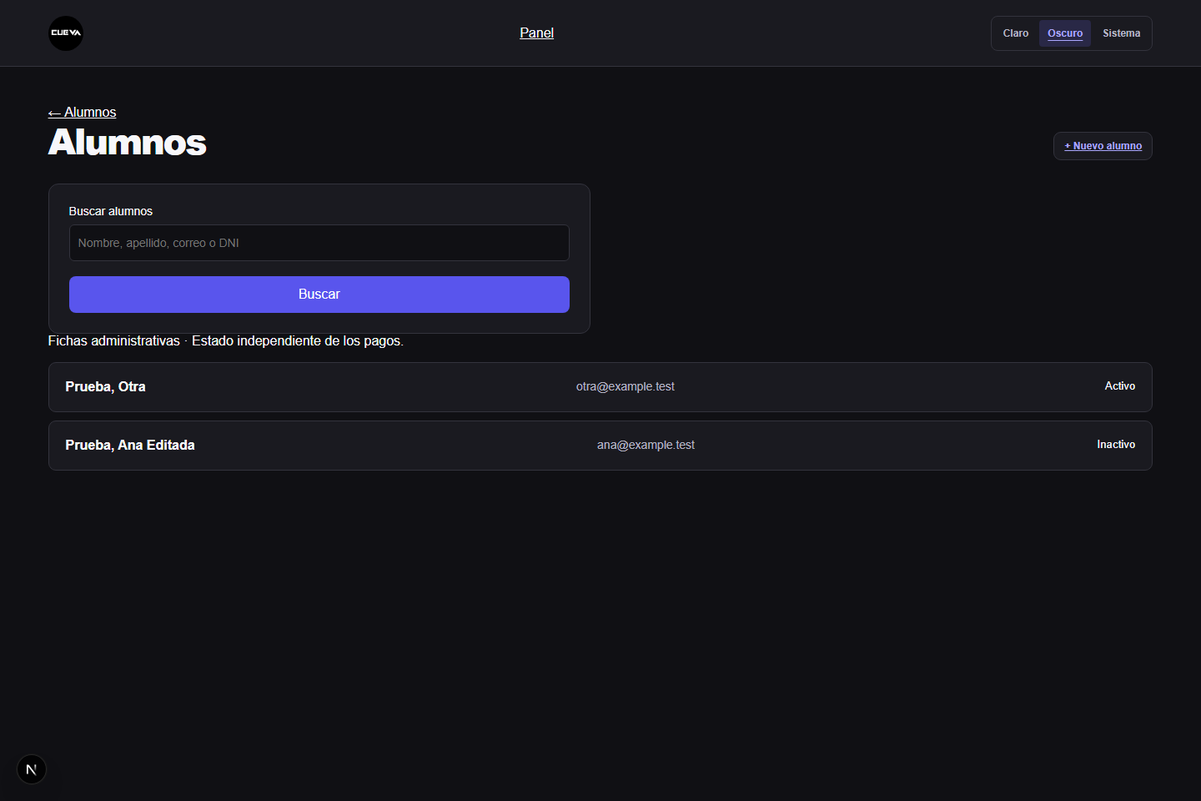
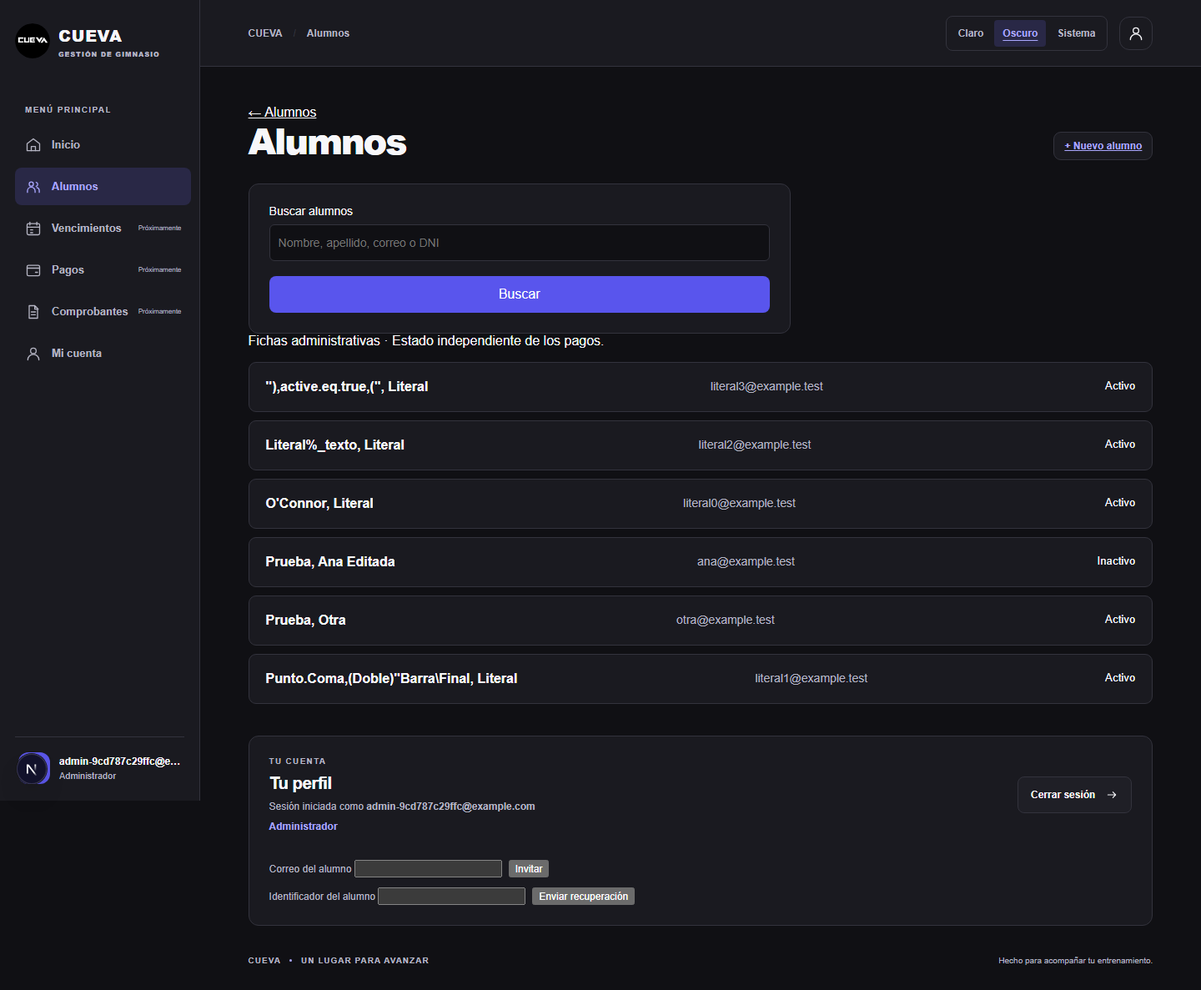
fix: preserve student search and shared admin navigation

diff --git a/src/components/dashboard/admin-dashboard.tsx b/src/components/dashboard/admin-dashboard.tsx
@@ -20,31 +20,42 @@ const areas: { id: string; name: string; label: string; description: string; ico
   { id: "pagos", name: "Pagos", label: "Pagos y cuotas", description: "El registro y seguimiento de pagos estará disponible próximamente.", icon: "wallet" },
   { id: "comprobantes", name: "Comprobantes", label: "Comprobantes pendientes", description: "Los comprobantes para revisar aparecerán acá.", icon: "file" },
 ];
-export function AdminDashboard({ displayName, email, role, logo, themePicker, accountActions }: { displayName: string; email: string; role: string; logo: ReactNode; themePicker: ReactNode; accountActions?: ReactNode }) {
+type AdminProps = { displayName: string; email: string; role: string; logo: ReactNode; themePicker: ReactNode; accountActions?: ReactNode };
+export function AdminAccountActions({ ownerOnly }: { ownerOnly: boolean }) {
+  return ownerOnly ? <p>Las invitaciones y la recuperación de alumnos estarán disponibles cuando terminemos de configurar el correo del gimnasio.</p> : <><form method="post" action="/api/acceso/admin-invitar"><label>Correo del alumno <input name="email" type="email" required/></label><button>Invitar</button></form><form method="post" action="/api/acceso/admin-recuperar"><label>Identificador del alumno <input name="user_id" required/></label><button>Enviar recuperación</button></form></>;
+}
+export function AdminShell({ displayName, email, role, logo, themePicker, accountActions, active = "inicio", children }: AdminProps & { active?: "inicio" | "alumnos"; children: ReactNode }) {
+  const panelLink = active === "inicio" ? "#inicio" : "/cuenta";
+  const areaLink = (id: string) => id === "alumnos" ? "/alumnos" : `${active === "inicio" ? "" : "/cuenta"}#${id}`;
   return <div className="dashboard" id="inicio">
     <a className="skip-link" href="#panel">Saltar al contenido</a>
     <aside className="dash-sidebar" aria-label="Barra lateral">
-      <a href="#inicio" className="dash-brand" aria-label="CUEVA, inicio">{logo}<span>CUEVA <small>GESTIÓN DE GIMNASIO</small></span></a>
+      <a href={panelLink} className="dash-brand" aria-label="CUEVA, inicio">{logo}<span>CUEVA <small>GESTIÓN DE GIMNASIO</small></span></a>
       <div className="dash-nav-label">MENÚ PRINCIPAL</div>
       <nav className="dash-side-nav" aria-label="Navegación principal">
-        <a href="#inicio" className="dash-nav-active" aria-current="page"><Icon name="home"/>Inicio</a>
-        {areas.map(area => <a href={area.id === "alumnos" ? "/alumnos" : `#${area.id}`} key={area.id}><Icon name={area.icon}/>{area.name}{area.id !== "alumnos" && <span>Próximamente</span>}</a>)}
+        <a href={panelLink} className={active === "inicio" ? "dash-nav-active" : undefined} aria-current={active === "inicio" ? "page" : undefined}><Icon name="home"/>Inicio</a>
+        {areas.map(area => <a href={areaLink(area.id)} key={area.id} className={active === area.id ? "dash-nav-active" : undefined} aria-current={active === area.id ? "page" : undefined}><Icon name={area.icon}/>{area.name}{area.id !== "alumnos" && <span>Próximamente</span>}</a>)}
         <a href="#cuenta"><Icon name="user"/>Mi cuenta</a>
       </nav>
       <div className="dash-sidebar-bottom"><span className="dash-avatar" aria-hidden="true">{displayName.charAt(0).toUpperCase()}</span><div><strong>{displayName}</strong><small>{role}</small></div></div>
     </aside>
     <div className="dash-content">
-      <header className="dash-header"><div className="dash-mobile-brand">{logo}<span>CUEVA</span></div><div className="dash-breadcrumb">CUEVA <span>/</span> Panel de administración</div><div className="dash-header-actions">{themePicker}<a href="#cuenta" className="dash-profile-link" aria-label="Ir a mi cuenta"><Icon name="user"/></a></div></header>
+      <header className="dash-header"><div className="dash-mobile-brand">{logo}<span>CUEVA</span></div><div className="dash-breadcrumb">CUEVA <span>/</span> {active === "alumnos" ? "Alumnos" : "Panel de administración"}</div><div className="dash-header-actions">{themePicker}<a href="#cuenta" className="dash-profile-link" aria-label="Ir a mi cuenta"><Icon name="user"/></a></div></header>
       <main className="dash-main" id="panel" tabIndex={-1}>
-        <div className="dash-heading"><div><p className="dash-overline"><span/> TU ESPACIO DE GESTIÓN</p><h1>Hola, {displayName} <span aria-hidden="true">✳</span></h1><p>Todo lo importante de tu gimnasio, en un solo lugar.</p></div><span className="dash-role"><Icon name="spark"/>{role}</span></div>
-        <div className="dash-section-heading"><div><p className="dash-kicker">TU GIMNASIO</p><h2>Resumen general</h2></div><span className="dash-live-label"><span/> PANEL DE ADMINISTRACIÓN</span></div>
-        <div className="dash-cards">{areas.map(area => <a href={area.id === "alumnos" ? "/alumnos" : `#${area.id}`} className="dash-card" key={area.id}><span className="dash-card-top"><span className={`dash-card-icon icon-${area.id}`}><Icon name={area.icon}/></span><Icon name="arrow"/></span><span className="dash-card-label">{area.label}</span><strong>{area.id === "alumnos" ? "Gestionar fichas" : "Sin datos aún"}</strong><span className="dash-card-note">{area.id === "alumnos" ? "Abrir listado de alumnos" : "Disponible próximamente"}</span></a>)}</div>
-        <div className="dash-section-heading dash-areas-heading"><div><p className="dash-kicker">ORGANIZÁ TU DÍA</p><h2>Tu espacio de trabajo</h2><p>Estamos preparando las herramientas para acompañarte.</p></div></div>
-        <div className="dash-workspace">{areas.map(area => <section className="dash-area" id={area.id} key={area.id}><div className="dash-area-icon"><Icon name={area.icon}/></div><div><div className="dash-area-title"><h3>{area.name}</h3>{area.id !== "alumnos" && <span>PRÓXIMAMENTE</span>}</div><p>{area.description}</p></div></section>)}</div>
+        {children}
         <section className="dash-account" id="cuenta"><div><p className="dash-kicker">TU CUENTA</p><h2>Tu perfil</h2><p>Sesión iniciada como <strong>{email}</strong></p><span className="dash-account-role">{role}</span></div><form method="post" action="/api/acceso/salir"><button type="submit" className="dash-signout">Cerrar sesión <Icon name="arrow"/></button></form>{accountActions && <div className="dash-account-actions">{accountActions}</div>}</section>
         <footer className="dash-footer"><span>CUEVA <i/> UN LUGAR PARA AVANZAR</span><span>Hecho para acompañar tu entrenamiento.</span></footer>
       </main>
     </div>
-    <nav className="dash-mobile-nav" aria-label="Navegación móvil"><a href="#inicio" aria-current="page"><Icon name="home"/><span>Inicio</span></a><a href="/alumnos"><Icon name="users"/><span>Alumnos</span></a><a href="#pagos"><Icon name="wallet"/><span>Pagos</span></a><a href="#comprobantes"><Icon name="file"/><span>Comprobantes</span></a><a href="#cuenta"><Icon name="user"/><span>Cuenta</span></a></nav>
+    <nav className="dash-mobile-nav" aria-label="Navegación móvil"><a href={panelLink} aria-current={active === "inicio" ? "page" : undefined}><Icon name="home"/><span>Inicio</span></a><a href="/alumnos" aria-current={active === "alumnos" ? "page" : undefined}><Icon name="users"/><span>Alumnos</span></a><a href={areaLink("pagos")}><Icon name="wallet"/><span>Pagos</span></a><a href={areaLink("comprobantes")}><Icon name="file"/><span>Comprobantes</span></a><a href="#cuenta"><Icon name="user"/><span>Cuenta</span></a></nav>
   </div>;
+}
+export function AdminDashboard(props: AdminProps) {
+  return <AdminShell {...props}>
+        <div className="dash-heading"><div><p className="dash-overline"><span/> TU ESPACIO DE GESTIÓN</p><h1>Hola, {props.displayName} <span aria-hidden="true">✳</span></h1><p>Todo lo importante de tu gimnasio, en un solo lugar.</p></div><span className="dash-role"><Icon name="spark"/>{props.role}</span></div>
+        <div className="dash-section-heading"><div><p className="dash-kicker">TU GIMNASIO</p><h2>Resumen general</h2></div><span className="dash-live-label"><span/> PANEL DE ADMINISTRACIÓN</span></div>
+        <div className="dash-cards">{areas.map(area => <a href={area.id === "alumnos" ? "/alumnos" : `#${area.id}`} className="dash-card" key={area.id}><span className="dash-card-top"><span className={`dash-card-icon icon-${area.id}`}><Icon name={area.icon}/></span><Icon name="arrow"/></span><span className="dash-card-label">{area.label}</span><strong>{area.id === "alumnos" ? "Gestionar fichas" : "Sin datos aún"}</strong><span className="dash-card-note">{area.id === "alumnos" ? "Abrir listado de alumnos" : "Disponible próximamente"}</span></a>)}</div>
+        <div className="dash-section-heading dash-areas-heading"><div><p className="dash-kicker">ORGANIZÁ TU DÍA</p><h2>Tu espacio de trabajo</h2><p>Estamos preparando las herramientas para acompañarte.</p></div></div>
+        <div className="dash-workspace">{areas.map(area => <section className="dash-area" id={area.id} key={area.id}><div className="dash-area-icon"><Icon name={area.icon}/></div><div><div className="dash-area-title"><h3>{area.name}</h3>{area.id !== "alumnos" && <span>PRÓXIMAMENTE</span>}</div><p>{area.description}</p></div></section>)}</div>
+  </AdminShell>;
 }

diff --git a/src/app/alumnos/page.tsx b/src/app/alumnos/page.tsx
@@ -1,19 +1,46 @@
 import Link from "next/link";
 import { studentAdmin } from "@/lib/students/server";
+import { studentSearchFilter } from "@/lib/students/search";
+import { buenosAiresDate } from "@/lib/students/date";
+import { productConfig } from "@/lib/product-auth/server";
 import { StudentForm, type Student } from "@/components/students/student-form";
+import { AdminAccountActions, AdminShell } from "@/components/dashboard/admin-dashboard";
 import { BrandMark } from "@/components/brand/brand-mark";
 import { ThemePicker } from "@/components/theme/theme-picker";
-export const dynamic="force-dynamic";
-export default async function Students({searchParams}:{searchParams:Promise<Record<string,string|string[]|undefined>>}) {
- const client=await studentAdmin();
- if(!client)return <main className="shell"><h1>Acceso restringido</h1><p>Esta sección requiere una cuenta de administrador habilitada.</p><Link href="/cuenta">Volver a mi cuenta</Link></main>;
- const params=await searchParams;const q=typeof params.q==="string"?params.q.trim().slice(0,100):"";
- const id=typeof params.id==="string"&&/^[0-9a-f-]{36}$/i.test(params.id)?params.id:null;
- let query=client.from("cueva_students").select("id,first_name,last_name,email,dni,joined_on,active").order("last_name").order("id").limit(101);
- if(id)query=query.eq("id",id);
- if(q){const escaped=q.replace(/[\\%_]/g,"\\$&").replace(/[,()."']/g,"");if(escaped)query=query.or(`first_name.ilike.%${escaped}%,last_name.ilike.%${escaped}%,email.ilike.%${escaped}%,dni.ilike.%${escaped}%`);}
- const {data,error}=await query;const rows=(data??[]) as Student[];const student=rows[0];
- return <div className="dashboard"><div className="dash-content"><header className="dash-header"><Link href="/cuenta" aria-label="CUEVA, panel"><BrandMark size={42}/></Link><Link href="/cuenta">Panel</Link><ThemePicker/></header><main className="dash-main"><Link href="/alumnos">← Alumnos</Link><div className="dash-heading"><h1>{params.nuevo?"Nuevo alumno":id?"Ficha del alumno":"Alumnos"}</h1>{!id&&!params.nuevo&&<Link className="dash-role" href="/alumnos?nuevo=1">+ Nuevo alumno</Link>}</div>
- {error?<section className="dash-account"><h2>Gestión no disponible</h2><p>La migración puede estar pendiente de aplicación o hubo un error de conexión. No se modificaron datos.</p><Link href="/alumnos">Reintentar</Link></section>:params.nuevo?<StudentForm/>:id?!student?<p>No se encontró la ficha.</p>:params.editar?<StudentForm student={student}/>:<section className="dash-account"><div><h2>{student.first_name} {student.last_name}</h2>{params.guardado&&<p role="status">Ficha guardada correctamente.</p>}<p>{student.email}</p><p>DNI: {student.dni??"No informado"}</p><p>Fecha de alta: {student.joined_on}</p><p>Estado administrativo: {student.active?"Activo":"Inactivo"}</p><p>Acceso a la aplicación: no se vincula automáticamente con esta ficha.</p><Link href={`/alumnos?id=${id}&editar=1`}>Editar ficha</Link><p>Pagos, rutina y comprobantes: próximamente.</p></div></section>:<><form className="student-search"><label>Buscar alumnos<input name="q" defaultValue={q} placeholder="Nombre, apellido, correo o DNI"/></label><button>Buscar</button></form><p>{q?"Resultados de búsqueda":"Fichas administrativas"} · Estado independiente de los pagos.</p>{!rows.length?<section className="dash-account"><h2>{q?"No encontramos coincidencias":"Todavía no hay alumnos"}</h2><p>{q?"Probá con otro nombre, correo o DNI.":"Registrá la primera ficha desde Nuevo alumno."}</p></section>:<ul className="student-list">{rows.slice(0,100).map(row=><li key={row.id}><Link href={`/alumnos?id=${row.id}`}><strong>{row.last_name}, {row.first_name}</strong><span>{row.email}</span><small>{row.active?"Activo":"Inactivo"}</small></Link></li>)}</ul>}{rows.length>100&&<p>Mostramos los primeros 100 resultados. Refiná la búsqueda para encontrar una ficha.</p>}</>}
- </main></div></div>;
+
+export const dynamic = "force-dynamic";
+export default async function Students({ searchParams }: { searchParams: Promise<Record<string, string | string[] | undefined>> }) {
+  const client = await studentAdmin();
+  if (!client) return <main className="shell"><h1>Acceso restringido</h1><p>Esta sección requiere una cuenta de administrador habilitada.</p><Link href="/cuenta">Volver a mi cuenta</Link></main>;
+  const { data: { user } } = await client.auth.getUser();
+  if (!user) return <main className="shell"><h1>Acceso restringido</h1><Link href="/cuenta">Volver a mi cuenta</Link></main>;
+  const email = user.email ?? "Cuenta de CUEVA";
+  const fullName = user.user_metadata?.full_name;
+  const displayName = typeof fullName === "string" && fullName.trim() ? fullName.trim() : email;
+  const params = await searchParams;
+  const q = typeof params.q === "string" ? params.q.trim().slice(0, 100) : "";
+  const id = typeof params.id === "string" && /^[0-9a-f-]{36}$/i.test(params.id) ? params.id : null;
+  let query = client.from("cueva_students").select("id,first_name,last_name,email,dni,joined_on,active").order("last_name").order("id").limit(101);
+  if (id) query = query.eq("id", id);
+  if (q) query = query.or(studentSearchFilter(q));
+  const { data, error } = await query;
+  const rows = (data ?? []) as Student[];
+  const student = rows[0];
+  const defaultJoinedOn = buenosAiresDate();
+  return <AdminShell displayName={displayName} email={email} role="Administrador" logo={<BrandMark size={42} />} themePicker={<ThemePicker />} active="alumnos" accountActions={<AdminAccountActions ownerOnly={productConfig()!.ownerOnly} />}>
+    <Link href="/alumnos">← Alumnos</Link>
+    <div className="dash-heading"><h1>{params.nuevo ? "Nuevo alumno" : id ? "Ficha del alumno" : "Alumnos"}</h1>{!id && !params.nuevo && <Link className="dash-role" href="/alumnos?nuevo=1">+ Nuevo alumno</Link>}</div>
+    {error ? <section className="dash-account"><h2>Gestión no disponible</h2><p>No pudimos cargar los alumnos. Intentá nuevamente.</p><Link href="/alumnos">Reintentar</Link></section>
+      : params.nuevo ? <StudentForm defaultJoinedOn={defaultJoinedOn} />
+      : id ? !student ? <p>No se encontró la ficha.</p>
+        : params.editar ? <StudentForm student={student} defaultJoinedOn={defaultJoinedOn} />
+          : <section className="dash-account"><div><h2>{student.first_name} {student.last_name}</h2>{params.guardado && <p role="status">Ficha guardada correctamente.</p>}<p>{student.email}</p><p>DNI: {student.dni ?? "No informado"}</p><p>Fecha de alta: {student.joined_on}</p><p>Estado administrativo: {student.active ? "Activo" : "Inactivo"}</p><p>Acceso a la aplicación: no se vincula automáticamente con esta ficha.</p><Link href={`/alumnos?id=${id}&editar=1`}>Editar ficha</Link><p>Pagos, rutina y comprobantes: próximamente.</p></div></section>
+      : <>
+        <form className="student-search"><label>Buscar alumnos<input name="q" defaultValue={q} placeholder="Nombre, apellido, correo o DNI" /></label><button>Buscar</button></form>
+        <p>{q ? "Resultados de búsqueda" : "Fichas administrativas"} · Estado independiente de los pagos.</p>
+        {!rows.length ? <section className="dash-account"><h2>{q ? "No encontramos coincidencias" : "Todavía no hay alumnos"}</h2><p>{q ? "Probá con otro nombre, correo o DNI." : "Registrá la primera ficha desde Nuevo alumno."}</p></section>
+          : <ul className="student-list">{rows.slice(0, 100).map(row => <li key={row.id}><Link href={`/alumnos?id=${row.id}`}><strong>{row.last_name}, {row.first_name}</strong><span>{row.email}</span><small>{row.active ? "Activo" : "Inactivo"}</small></Link></li>)}</ul>}
+        {rows.length > 100 && <p>Mostramos los primeros 100 resultados. Refiná la búsqueda para encontrar una ficha.</p>}
+      </>}
+  </AdminShell>;
 }

diff --git a/src/components/students/student-form.tsx b/src/components/students/student-form.tsx
@@ -2,7 +2,7 @@
 import { useRouter } from "next/navigation";
 import { useState } from "react";
 export type Student={id:string;first_name:string;last_name:string;email:string;dni:string|null;joined_on:string;active:boolean};
-export function StudentForm({student}:{student?:Student}) {
+export function StudentForm({student, defaultJoinedOn}:{student?:Student;defaultJoinedOn:string}) {
  const router=useRouter();
  const [pending,setPending]=useState(false),[message,setMessage]=useState("");
  const [id]=useState(()=>student?.id??crypto.randomUUID());
@@ -11,7 +11,7 @@ export function StudentForm({student}:{student?:Student}) {
  <label>Apellido<input name="last_name" required maxLength={80} defaultValue={student?.last_name}/></label>
  <label>Correo electrónico<input name="email" type="email" required maxLength={254} defaultValue={student?.email}/></label>
  <label>DNI (opcional)<input name="dni" inputMode="numeric" pattern="[0-9]{6,10}" maxLength={10} defaultValue={student?.dni??""}/></label>
- <label>Fecha de alta<input name="joined_on" type="date" required min="1900-01-01" max="2100-12-31" defaultValue={student?.joined_on??new Date().toISOString().slice(0,10)}/></label>
+ <label>Fecha de alta<input name="joined_on" type="date" required min="1900-01-01" max="2100-12-31" defaultValue={student?.joined_on??defaultJoinedOn}/></label>
  <label>Estado administrativo<select name="active" defaultValue={student?.active===false?"false":"true"}><option value="true">Activo</option><option value="false">Inactivo</option></select></label>
  <p>Este estado no indica si la cuota está pagada. Guardar la ficha no crea una cuenta ni envía una invitación.</p>
  {message&&<p role="alert">{message}</p>}<button disabled={pending}>{pending?"Guardando…":"Guardar ficha"}</button>

diff --git a/src/app/cuenta/page.tsx b/src/app/cuenta/page.tsx
@@ -1,6 +1,6 @@
 import { notFound } from "next/navigation";
 import { productConfig, userClient } from "@/lib/product-auth/server";
-import { AdminDashboard } from "@/components/dashboard/admin-dashboard";
+import { AdminAccountActions, AdminDashboard } from "@/components/dashboard/admin-dashboard";
 import { BrandMark } from "@/components/brand/brand-mark";
 import { ThemePicker } from "@/components/theme/theme-picker";
 
@@ -17,6 +17,6 @@ export default async function AccountPage() {
   const fullName = user.user_metadata?.full_name;
   const email = user.email ?? "Cuenta de CUEVA";
   const displayName = typeof fullName === "string" && fullName.trim() ? fullName.trim() : email;
-  const accountActions = cfg.ownerOnly ? <p>Las invitaciones y la recuperación de alumnos estarán disponibles cuando terminemos de configurar el correo del gimnasio.</p> : <><form method="post" action="/api/acceso/admin-invitar"><label>Correo del alumno <input name="email" type="email" required/></label><button>Invitar</button></form><form method="post" action="/api/acceso/admin-recuperar"><label>Identificador del alumno <input name="user_id" required/></label><button>Enviar recuperación</button></form></>;
+  const accountActions = <AdminAccountActions ownerOnly={cfg.ownerOnly} />;
   return <AdminDashboard displayName={displayName} email={email} role="Administrador" logo={<BrandMark size={42} />} themePicker={<ThemePicker />} accountActions={accountActions} />;
 }

diff --git a/src/app/api/alumnos/route.ts b/src/app/api/alumnos/route.ts
@@ -25,7 +25,7 @@ export async function POST(req: Request) {
  const row={id:data.id,first_name,last_name,email,dni:dni||null,joined_on,active:data.active};
  const {id:studentId,...changes}=row;
  const result=data.edit===true?await client.from("cueva_students").update(changes).eq("id",studentId).select("id").maybeSingle():await client.from("cueva_students").insert(row).select("id").single();
- if(result.error){if(result.error.code==="23505")return reply("Ya existe una ficha con ese correo, DNI o identificador. Revisá el listado antes de volver a guardar.",409);return reply("No se pudo guardar. La gestión puede estar pendiente de habilitación. Conservamos tus datos para reintentar.",503);}
+ if(result.error){if(result.error.code==="23505")return reply("Ya existe una ficha con ese correo, DNI o identificador. Revisá el listado antes de volver a guardar.",409);return reply("No se pudo guardar. Conservamos tus datos para reintentar.",503);}
  if(!result.data)return reply("No se encontró la ficha o no tenés permiso.",404);
  return NextResponse.json({id:result.data.id},{headers:{"Cache-Control":"no-store"}});
 }

diff --git a/src/lib/students/search.ts b/src/lib/students/search.ts
@@ -1,0 +1,8 @@
+// Keep the search literal through SQL LIKE and PostgREST's quoted-value grammar.
+// URL encoding is performed once by supabase-js, not here.
+export function studentSearchFilter(value: string) {
+  const pattern = `%${value.replace(/[\\%_]/g, "\\$&")}%`;
+  const literal = `"${pattern.replace(/[\\"]/g, "\\$&")}"`;
+  return ["first_name", "last_name", "email", "dni"]
+    .map(column => `${column}.ilike.${literal}`).join(",");
+}

diff --git a/src/lib/students/date.ts b/src/lib/students/date.ts
@@ -1,0 +1,7 @@
+export function buenosAiresDate(now = new Date()) {
+  const parts = new Intl.DateTimeFormat("en", {
+    timeZone: "America/Argentina/Buenos_Aires", year: "numeric", month: "2-digit", day: "2-digit",
+  }).formatToParts(now);
+  const part = (type: Intl.DateTimeFormatPartTypes) => parts.find(value => value.type === type)!.value;
+  return `${part("year")}-${part("month")}-${part("day")}`;
+}

diff --git a/docs/engineering/CUEVA-ALUMNOS-001-review.md b/docs/engineering/CUEVA-ALUMNOS-001-review.md
@@ -2,6 +2,14 @@
 
 Estado: REVIEW. Base efectiva `fa87f778287434dbad016435b28b7d895a05f90e`, igual a origin/main verificado. Rama `codex/cueva-alumnos-001`.
 
+## Corrección posterior a revisión — 2026-11-04
+
+Se corrigieron tres observaciones: búsqueda literal de correo y nombres con puntuación mediante operandos PostgREST entre comillas; reutilización del marco administrativo en listado/alta/ficha/edición, con Alumnos activo y cuenta/cierre de sesión; fecha inicial en Buenos Aires sin alterar la fecha editada. Los mensajes de carga y guardado ya no muestran detalles de migración o infraestructura. Se extrajo únicamente el marco y los controles de cuenta del panel existente, sin cambiar condiciones de permisos o envío.
+
+Verificación de esta corrección: lint, tipos, build, documentos 2/2, panel 10/10, fuentes 4/4 y seguridad por patrones PASS. Laboratorio local de alumnos 43/43 PASS: incluye correo completo, DNI, apóstrofo, puntos/coma/paréntesis/comillas/barra, patrones porcentuales y un intento literal de imitar filtros; cuatro vistas con marco compartido; fecha fija de frontera nocturna y conservación de fecha editada; RLS/denegaciones y logout desde Alumnos. La primera corrida registró 42 PASS/1 FAIL por consultar inmediatamente el estado vacío; se añadió espera explícita al estado final y la corrida posterior pasó sin otro cambio de producción. No se repitieron laboratorios de identidad. Capturas y evidencia JSON reemplazadas por la corrida final; muestran cuentas y fichas sintéticas, incluyendo nombres de prueba de puntuación. La configuración local no representa disponibilidad alojada del correo.
+
+Migración, dependencias y mecanismo de Auth intactos en esta corrección. Recursos exclusivos CUEVA eliminados; contenedores Vendify conservados. Revisión independiente final, aplicación alojada y publicación siguen pendientes.
+
 Implementa listado, búsqueda por los cuatro campos de identidad, alta, consulta por UUID y edición de fichas independientes de Auth. Conserva diseño, tema, navegación al panel y sesión existente. Las tarjetas de otras funciones permanecen pendientes. El listado limita a 100 resultados y solicita refinar la búsqueda; no hay paginación en este incremento. Los nombres admiten hasta 80 caracteres, DNI de 6 a 10 dígitos opcional y fecha entre 1900 y 2100. Correo se normaliza a minúsculas. El estado administrativo no representa pagos.
 
 La [migración](../../supabase/migrations/20261104090000_cueva_students.sql) y el [modelo con instrucciones de aplicación](../architecture/students.md) están versionados. No se ejecutaron SQL ni escrituras alojadas. El Orchestrator debe revisar, aplicar la migración y verificar el entorno antes de publicar. No hay vínculo con Auth ni operaciones de correo. El matcher del proxy se amplía a las rutas nuevas para reutilizar el refresco de sesión existente, sin cambiar roles o mecanismos de autenticación.

diff --git a/docs/architecture/students.md b/docs/architecture/students.md
@@ -15,6 +15,10 @@ Servidor y RLS exigen administrador desde `cueva_profiles` y los controles de se
 
 La búsqueda muestra un máximo de 100 filas y pide refinar al superar ese límite. No se calcula un indicador de alumnos activos en el panel hasta definirlo; el panel ofrece acceso a fichas. DNI es administrativo y nunca identifica un inicio de sesión.
 
+La búsqueda conserva puntos, apóstrofos, comas, paréntesis, comillas y barras: escapa primero el patrón LIKE y después el literal entre comillas de PostgREST, sin eliminar caracteres ni pre-encodear la URL. [Gramática oficial y caracteres reservados](https://docs.postgrest.org/en/stable/references/api/url_grammar.html#reserved-characters). Se verifica contra PostgREST local real, incluyendo una cadena que imita filtros y no debe ampliar resultados.
+
+El listado, alta, ficha y edición comparten `AdminShell` con el panel: sidebar, navegación móvil con Alumnos activo, tema, identidad del usuario validado y controles de cuenta existentes. La fecha inicial de una ficha nueva se calcula en servidor para `America/Argentina/Buenos_Aires`; la edición conserva la fecha guardada. El error de carga/guardado se expresa para el usuario sin detalles de infraestructura.
+
 ## Reproducción local
 
 Desde `experiments/cueva-alumnos-local`: `node lab.mjs`, con dependencias del repositorio instaladas, Docker existente e imágenes fijadas del laboratorio I. Se reutiliza su lanzador Next y esquema auxiliar, pero se ejecuta únicamente el flujo de alumnos. Los usuarios sintéticos se crean confirmados localmente; no se ejecutan invitaciones/recuperaciones ni se toca correo real. Credenciales efímeras solo en memoria/entorno de procesos propios; salida redactada `results.json`. Al terminar se cierran navegador, Next y los contenedores/red exclusivos `cueva-alumnos-*`; nunca se modifica Docker ni recursos de Vendify. Las imágenes compartidas se conservan.

diff --git a/docs/engineering/checkpoint.md b/docs/engineering/checkpoint.md
@@ -1,5 +1,13 @@
 # Checkpoint CUEVA
 
+## CUEVA-ALUMNOS-001 — correcciones para nueva revisión, 2026-11-04
+
+Se conserva estado **REVIEW**. Corregidas búsqueda literal, marco administrativo
+compartido con Alumnos activo y fecha inicial en Buenos Aires. Laboratorio local
+43/43 PASS, panel 10/10, build/tipos/lint/documentos/fuentes/seguridad PASS.
+Ver [informe actualizado](CUEVA-ALUMNOS-001-review.md). Migración alojada,
+integración y publicación pendientes; sin cambios en Auth, SMTP ni cuentas reales.
+
 Actualizado: 2026-11-03, America/Buenos_Aires. Continuidad y auditoría: ORCHESTRATOR CUEVA.
 
 ## CUEVA-UI-001 — revisión independiente
